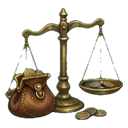
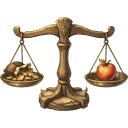
拠点のトップの看板「冒険の準備」と、［商店］［記録］［配合］の札を、文字ごと1枚の絵にする（Gemini で描いてもらい、緑を抜いて切り出した。配合の円盤の緑の線は残す）。札は3枚とも同じ大きさで 2×2 に並べ、右上は空けておく。「NEW」「！」の印と押せる範囲は上に重ねる。商店の天びんのアイコンを描き直したものにし、下のタブの［商店］も同じ絵にする。使わなくなった文字の絵・看板の絵・札のアイコンと「»」の絵を消す

diff --git a/src/style.css b/src/style.css
@@ -1788,94 +1788,6 @@ body:has(#base:not([hidden])) {
   line-height: 14px;
   text-shadow: 1px 0 0 #3b2208, -1px 0 0 #3b2208, 0 1px 0 #3b2208, 0 -1px 0 #3b2208;
 }
-/*
- * 鎖で吊るした［冒険の準備］の看板。絵（幅 704・板 302・鎖ごと 487）を下の端にそろえて出す。
- * 見える鎖の長さは、余った高さに合わせて伸び縮みする（上は仲間の台の裏に差し込む）
- */
-.hub-sign {
-  position: relative;
-  z-index: 1;
-  flex: none;
-  width: var(--sign-w);
-  /* 鎖は短く決めた長さにし、余った高さはかたまりの上下と札との間で同じに分ける */
-  height: calc(var(--sign-w) * 0.43 + 30px);
-  margin: -6px auto 0;
-  background: url('./ui-art/signboard.png') center bottom / 100% auto no-repeat;
-}
-/* 押せる板。左のランタンをよけ、文字を板の木目のまん中にそろえる */
-.hub-sign-plate {
-  position: absolute;
-  left: 0;
-  right: 0;
-  bottom: 0;
-  height: calc(var(--sign-w) * 0.43);
-  display: flex;
-  align-items: center;
-  /* 文字は板のまん中にそろえる（左右の余白を同じにする） */
-  padding: 3.6% 16% 0;
-  border: none;
-  background: none;
-}
-.hub-sign-plate:active {
-  transform: translateY(2px);
-  filter: brightness(0.96);
-}
-.hub-sign-title {
-  flex: 1;
-  font-size: min(29px, calc(var(--sign-w) * 0.072));
-  text-align: center;
-}
-
-/* ［商店］は幅いっぱい、［記録］［配合］は2つ並べる。木の縁に真ちゅうの金具の札。看板のすぐ下に置く */
-.hub-menus {
-  display: grid;
-  grid-template-columns: 1fr 1fr;
-  gap: min(8px, 1.2cqh) 8px;
-  width: var(--sign-w);
-  margin: 0 auto;
-}
-.hub-item {
-  position: relative;
-  display: flex;
-  align-items: center;
-  gap: 6px;
-  height: min(58px, 8cqh);
-  padding: 0 8px;
-  border-style: solid;
-  border-width: 8px;
-  border-image: url('./ui-art/menu.png') 56 fill / 18px stretch;
-  background: none;
-  filter: drop-shadow(0 2px 3px rgba(61, 47, 34, 0.35));
-}
-.hub-item.wide {
-  grid-column: 1 / -1;
-}
-.hub-item:active {
-  transform: translateY(2px);
-}
-.hub-icon {
-  display: grid;
-  place-items: center;
-  flex: none;
-  width: min(38px, 5.6cqh);
-  height: min(38px, 5.6cqh);
-}
-.hub-icon img {
-  width: 100%;
-  height: 100%;
-}
-.hub-title {
-  flex: 1;
-  font-size: min(20px, 3.6cqh);
-  text-align: left;
-  /* 狭い画面でも「記録」「配合」を縦に折らない */
-  white-space: nowrap;
-}
-.hub-go img {
-  display: block;
-  width: 20px;
-  height: 20px;
-}
 @media (prefers-reduced-motion: reduce) {
   .hub-stage,
   .hub-slot.empty .hub-face::before,
@@ -3159,11 +3071,6 @@ body.fan-open::before {
   display: flex;
   flex-direction: column;
 }
-/* ［商店］は札のまん中に名前を置く（右の » の幅だけ左へ戻す） */
-.hub-item.wide .hub-title {
-  padding-left: 18px;
-  text-align: center;
-}
 
 /* ダンジョンの詳しい画面：説明と記録、下に確かめの窓と同じ［挑む］［やめる］ */
 .dungeon-detail .dialog-buttons {
@@ -3206,19 +3113,6 @@ body.fan-open::before {
   height: 50px;
 }
 
-/* 拠点のトップの名前の絵（描いてもらった文字。docs/art-guide.md 8.1） */
-.label-art {
-  display: inline-block;
-  width: auto;
-  vertical-align: middle;
-  filter: drop-shadow(0 2px 2px rgba(0, 0, 0, 0.35));
-}
-.hub-sign-title .label-art {
-  height: min(46px, calc(var(--sign-w) * 0.11));
-}
-.hub-title .label-art {
-  height: min(30px, 4.8cqh);
-}
 
 /* 文の中の小さな絵（属性・ルーン・状態異常など。ui/icons.ts） */
 .inline-icon {
@@ -3244,4 +3138,46 @@ body.fan-open::before {
 .list-search input {
   padding-left: 34px;
   background: #fffaf0 9px center / 20px 20px no-repeat;
+}
+
+/*
+ * 拠点のトップの看板と札（文字ごと1枚の絵。docs/art-guide.md 8.1）。
+ * 看板は鎖の上の端を仲間の台の裏に差し込む。札は 2×2 に並べ、右上は空けておく
+ */
+.hub-sign {
+  position: relative;
+  z-index: 1;
+  display: block;
+  flex: none;
+  width: var(--sign-w);
+  margin: -6px auto 0;
+  padding: 0;
+  border: none;
+  background: none;
+}
+.hub-sign-art,
+.hub-card-art {
+  display: block;
+  width: 100%;
+  height: auto;
+  filter: drop-shadow(0 2px 3px rgba(61, 47, 34, 0.35));
+}
+.hub-sign:active,
+.hub-item:active {
+  transform: translateY(2px);
+  filter: brightness(0.96);
+}
+.hub-menus {
+  display: grid;
+  grid-template-columns: 1fr 1fr;
+  gap: min(8px, 1.2cqh) 8px;
+  width: var(--sign-w);
+  margin: 0 auto;
+}
+.hub-item {
+  position: relative;
+  display: block;
+  padding: 0;
+  border: none;
+  background: none;
 }

diff --git a/src/ui/base.ts b/src/ui/base.ts
@@ -358,40 +358,30 @@ export class BaseScreen {
     stage.className = 'hub-stage';
     stage.append(artElement('player', '🧙', 'hub-art'));
     hero.append(stage, note(`${generationName(p.generation)} 召喚士`, 'hub-name'), party);
-    // 鎖で吊るした［冒険の準備］の看板。板のどこを押しても冒険へ（ダンジョンを選ぶところから）
-    const sign = document.createElement('div');
+    // 鎖で吊るした［冒険の準備］の看板と、［商店］［記録］［配合］の札は、文字ごと1枚の絵（docs/art-guide.md 8.1）。
+    // 「NEW」「！」の印と押せる範囲だけを上に重ねる
+    const sign = document.createElement('button');
     sign.className = 'hub-sign';
-    const plate = document.createElement('button');
-    plate.className = 'hub-sign-plate';
-    // 看板と札の名前は、描いてもらった文字の絵（public/art/ui_label_*.png。docs/art-guide.md 8.1）
-    const signTitle = document.createElement('span');
-    signTitle.className = 'hub-sign-title';
-    signTitle.append(labelImage('adventure', '冒険の準備'));
-    plate.append(signTitle);
-    plate.addEventListener('click', () => this.go('prep'));
-    sign.append(plate);
-    /** icon は public/art/ui_hub_<icon>.png、名前の絵は public/art/ui_label_<icon>.png */
-    const item = (view: View, icon: string, name: string, wide = false, otherMode?: OtherMode): HTMLElement => {
+    sign.setAttribute('aria-label', '冒険の準備');
+    sign.append(uiImage('ui_sign_adventure', 'hub-sign-art'));
+    sign.addEventListener('click', () => this.go('prep'));
+    /** 札の絵は public/art/ui_card_<name>.png */
+    const item = (view: View, art: string, name: string, otherMode?: OtherMode): HTMLElement => {
       const b = document.createElement('button');
-      b.className = wide ? 'hub-item wide' : 'hub-item';
-      const ic = document.createElement('span');
-      ic.className = 'hub-icon';
-      ic.append(uiImage(`ui_hub_${icon}`));
-      const t = document.createElement('span');
-      t.className = 'hub-title';
-      t.append(labelImage(icon, name));
-      const chevron = document.createElement('span');
-      chevron.className = 'hub-go';
-      chevron.append(uiImage('ui_chevron'));
-      b.append(ic, t, chevron);
+      b.className = 'hub-item';
+      b.setAttribute('aria-label', name);
+      b.append(uiImage(`ui_card_${art}`, 'hub-card-art'));
       const mark = this.badgeOf(p, view);
       if (mark) b.append(mark);
       b.addEventListener('click', () => this.go(view, otherMode));
       return b;
     };
+    // 2×2 に並べ、右上は空けておく（あとで別の札を置く）
+    const spare = document.createElement('span');
+    spare.className = 'hub-item-spare';
     const menus = document.createElement('div');
     menus.className = 'hub-menus';
-    menus.append(item('shop', 'shop', '商店', true), item('other', 'records', '記録', false, 'records'), item('fusion', 'fusion', '配合'));
+    menus.append(item('shop', 'shop', '商店'), spare, item('other', 'records', '記録', 'records'), item('fusion', 'fusion', '配合'));
     // 主人公・仲間と、鎖で吊るした看板は1つのかたまり。かたまりの上・札との間・札の下の余白を同じにする
     const upper = document.createElement('div');
     upper.className = 'hub-upper';
@@ -1352,13 +1342,6 @@ function withArt(el: HTMLElement, art: HTMLElement): HTMLElement {
 }
 
 /** UIの絵（public/art/<name>.png） */
-/** 拠点のトップの名前の絵。読み上げと、絵が出ないときのために alt に名前を入れる */
-function labelImage(name: string, text: string): HTMLImageElement {
-  const img = uiImage(`ui_label_${name}`, 'label-art');
-  img.alt = text;
-  return img;
-}
-
 function uiImage(name: string, className = ''): HTMLImageElement {
   const img = document.createElement('img');
   img.src = `art/${name}.png`;

diff --git a/public/sw.js b/public/sw.js
@@ -1,7 +1,7 @@
 // オフラインでも遊べるようにする（requirements.md 2章）。
 // 通信できるときは常に新しいものを取りに行き、取れたものを保存しておく。通信できないときは保存したものを使う
 // 保存の仕方を変えたときだけ名前を変える。ビルドごとに変える必要はない
-const CACHE = 'summoner-v99';
+const CACHE = 'summoner-v100';
 
 // 入れたときに、ページと、ページが読み込むファイル（ビルドで名前が変わる）を先に保存する
 self.addEventListener('install', (event) => {

diff --git a/docs/requirements.md b/docs/requirements.md
@@ -358,9 +358,9 @@
   - **見出し**：左に画面の名前（トップは「拠点」。2026-11-08 に、まん中の名札と同じ「初代 召喚士」を2か所に出すのをやめた。称号はまん中の名札に足す）。右に持っているルーン（左右がひし形の金の飾りの札）。どちらも紺の板に金の縁
   - どの画面も、村の一枚絵を背景にする。トップ以外は一覧が読みやすいよう、背景を少し暗くする
   - 拠点のトップの字体は4つ（字体は使う文字だけを切り出してゲームに入れる。docs/art-guide.md 8.1）
-    - 看板「冒険の準備」と札の［商店］［記録］［配合］：描いてもらった文字の絵（docs/art-guide.md 8.1）。看板は重い明朝で明るい黄色から深い金、札はアンティークの明朝でクリーム色から金（暗くしない）
+    - 看板「冒険の準備」と札の［商店］［記録］［配合］：文字ごと1枚の絵（docs/art-guide.md 8.1）。看板は重い明朝で明るい黄色から深い金、札はアンティークの明朝でクリーム色から金（暗くしない）
     - 小さな情報（見出しの名前とルーン・名札・Lv・下のタブ）：丸くない太いゴシック（Zen Kaku Gothic New の Black）。紺の札の字は明るい金に紺の縁取り、Lv は白い字に黒の縁取り
-    - **トップ**：スクロールさせない。額縁・看板・札は、画面の高さに合わせて縮めて1画面に収める。主人公と仲間・看板を1つのかたまりにし（仲間はうすい紺の台にまとめ、その下から短い鎖で看板を吊るす）、その下に札（幅を看板にそろえる）。かたまりの上・かたまりと札の間・札の下の余白を同じにする（2026-11-08。前は鎖を伸ばして余った高さを受けていたため、まん中が空き、札が下に寄って見えた）。看板の「冒険の準備」は板のまん中、［商店］の名前も札のまん中に置く。余った高さは鎖を少し伸ばして受ける。村の広場に、金の唐草の額縁（上に空色の宝石）の中で魔法陣の台に立つ主人公と、羽の付いた紺の名札（「初代 召喚士」）、金の枠に入れた連れていく仲間5つ（顔の下に Lv。空き枠は［＋］がゆっくり光る）。仲間の枠を押すと、下のタブの［仲間］の画面へ。その下に、鎖で吊るした［冒険の準備］の大きな看板（濃い木の板に、宝石の紋章・ランタン・つると花。板のどこを押しても冒険へ。2026-11-08 に、押せそうに見えて飾りだった［GO!］をやめた）、幅いっぱいの［商店］、2つ並べた［記録］［配合］の札。札に説明の文は付けない
+    - **トップ**：スクロールさせない。額縁・看板・札は、画面の高さに合わせて縮めて1画面に収める。主人公と仲間・看板を1つのかたまりにし（仲間はうすい紺の台にまとめ、その下から短い鎖で看板を吊るす）、その下に札（幅を看板にそろえる）。かたまりの上・かたまりと札の間・札の下の余白を同じにする（2026-11-08。前は鎖を伸ばして余った高さを受けていたため、まん中が空き、札が下に寄って見えた）。看板の「冒険の準備」は板のまん中、［商店］の名前も札のまん中に置く。余った高さは鎖を少し伸ばして受ける。村の広場に、金の唐草の額縁（上に空色の宝石）の中で魔法陣の台に立つ主人公と、羽の付いた紺の名札（「初代 召喚士」）、金の枠に入れた連れていく仲間5つ（顔の下に Lv。空き枠は［＋］がゆっくり光る）。仲間の枠を押すと、下のタブの［仲間］の画面へ。その下に、鎖で吊るした［冒険の準備］の大きな看板（濃い木の板に、宝石の紋章・ランタン・つると花。板のどこを押しても冒険へ。2026-11-08 に、押せそうに見えて飾りだった［GO!］をやめた）、［商店］［記録］［配合］の札（3枚とも同じ大きさで2×2に並べ、右上は空けておく。看板と札は文字ごと1枚の絵。docs/art-guide.md 8.1）。札に説明の文は付けない
     - **知らせ**：下のタブとトップの札に付ける。新しい仲間が加わった（ダンジョンから戻ったとき）→［仲間］に赤い丸の「！」。商店の品が入れ替わった→［商店］に「！」。どちらもその画面を開くと消える。配合できる組み合わせ（Lv10 以上の仲間2体・配合の書・1000ルーン）がそろった→［配合］に斜めの「NEW」のリボン。リボンは札の右上の角に掛ける。配合の画面を開くと消え、そろわなくなってまたそろうと、もう一度出す
     - **冒険（冒険の準備）**：まず挑むダンジョンを選ぶ（上のタブは出さない）。選ぶと、タブ［仲間］［持ち物］の2つと、左に「‹」（ダンジョンを選び直す）を出す。連れていく仲間を選び、持ち物を出し入れして、下の［〇〇へ出発］で出発する。見た目は紺と金の共通の部品（docs/art-guide.md 8.2）：紺の枠の中に、トップと同じ明るい紙の札の行、金の枠の顔、金の丸の選ぶ印。ダンジョンを選ぶ画面は「挑むダンジョンを選ぶ」のリボンの見出しの下に、ダンジョンごとの札
     - **仲間**：全員の一覧（連れていく仲間は行を金の光で縁取る）と、検索の欄・並べ替えのボタンの1行。行の右の丸い印で、連れていく・残すを切り替えられる（冒険の準備と同じ）。押すとつよさを見られ、名前を変えられる。見た目は冒険の準備と同じ紺と金の共通の部品

diff --git a/docs/test-results.md b/docs/test-results.md
@@ -2,6 +2,14 @@
 
 項目は docs/test-plan.md。
 
+## 2026-11-08（v100、拠点の看板と札を1枚の絵に・商店のアイコン）
+
+影響のあるテストを動かした。拠点のトップ（base.ts・style.css）と絵だけを変えたので、画面は拠点と一覧のテスト。
+
+| 種類 | 結果 |
+|---|---|
+| 画面のテスト（hub・lists、iPhone の WebKit と Chromium） | 28件 すべて通過 |
+
 ## 2026-11-08（v99、属性の装備の絵と、小さなアイコン）
 
 影響のあるテストを動かした。絵の一覧（art.ts）、文の中の絵文字を絵にする部品（icons.ts）と、それを使う画面（sheet.ts・base.ts・screens.ts・status.ts・dialog.ts・main.ts・renderer.ts）を変えたので、画面は拠点・一覧・ダンジョンのテスト。
